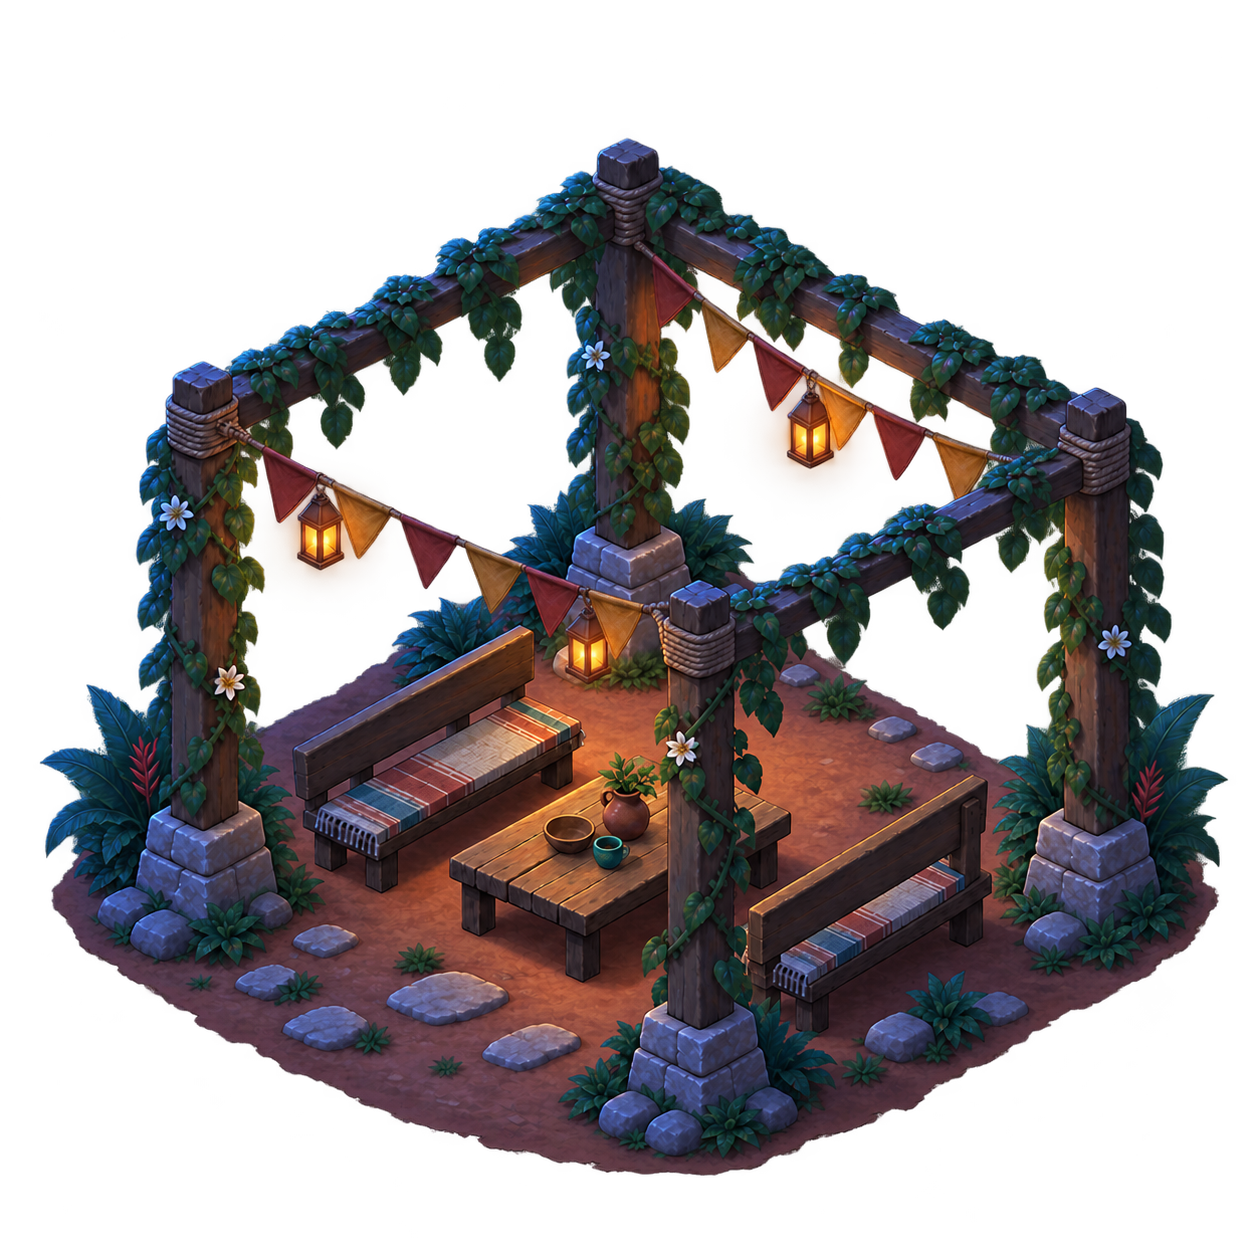
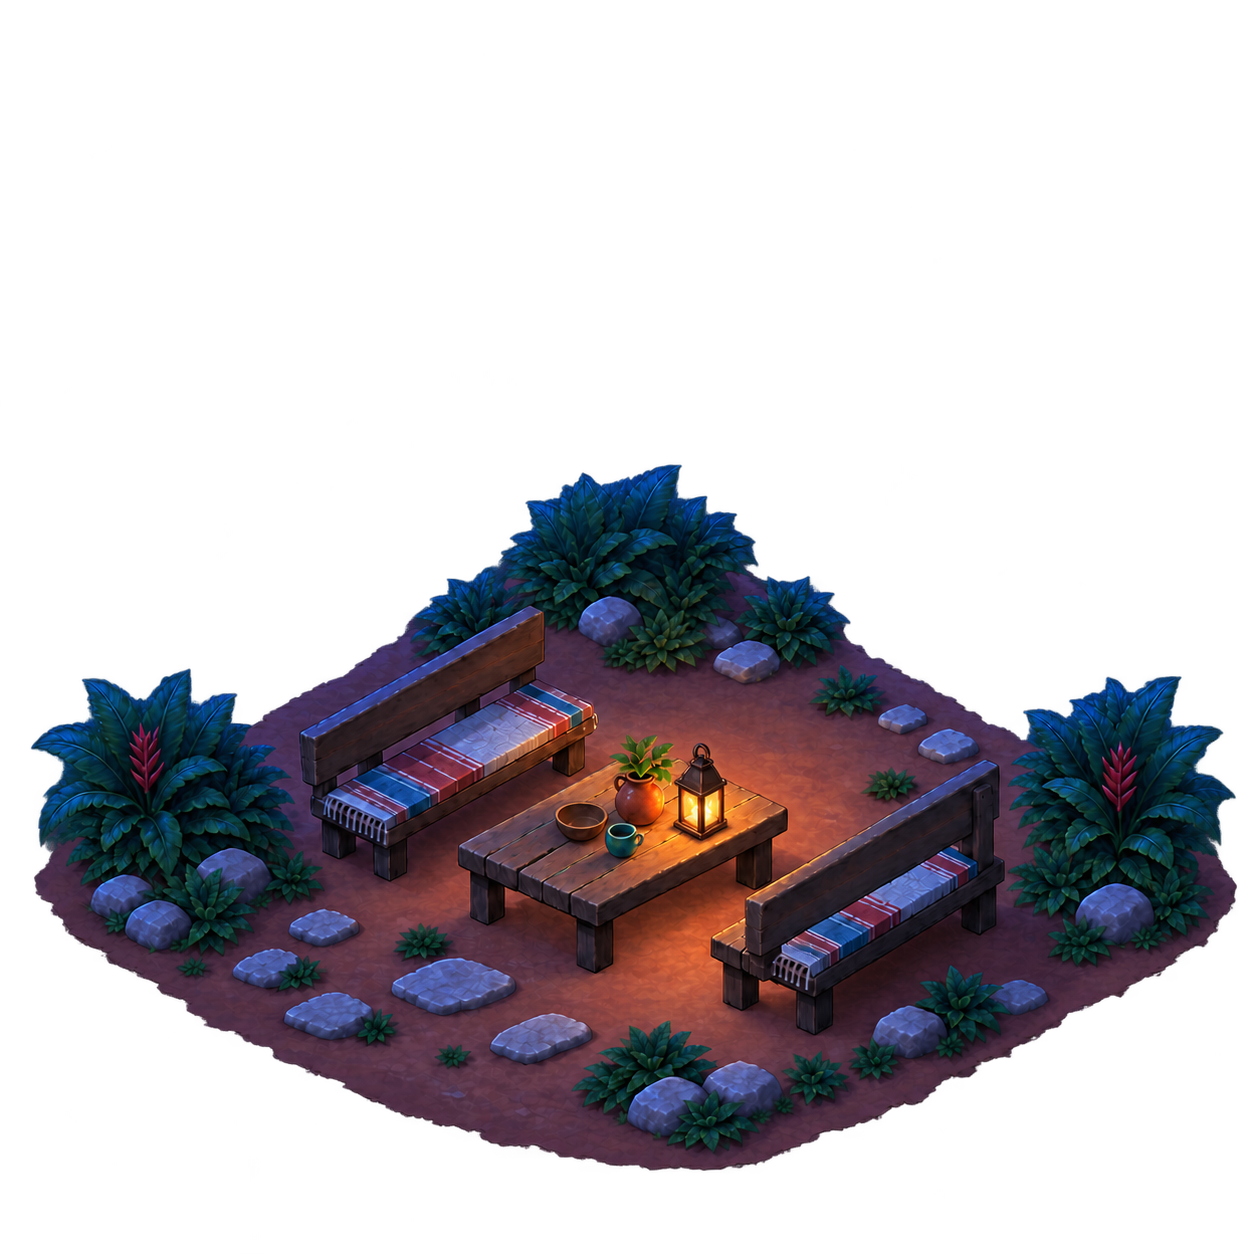
Remove the square pergola and keep an open seating area

diff --git a/web/building-projection.js b/web/building-projection.js
@@ -19,7 +19,7 @@ export const buildingProjection = {
   greenhouse: { size:1280, right:[[211,843,592,1132],[269,428,588,653]], left:[[595,1135,1059,909],[733,615,1005,481]], upright:[607,704,607,1033] },
   well: { size:1280, right:[[337,950,505,1040],[218,944,475,1086]], left:[[785,1001,1026,869],[790,1091,1040,953]], upright:[961,343,961,684] },
   compost: { size:1280, right:[[550,307,747,415],[538,657,735,773]], left:[[247,441,484,299],[540,598,754,464]], upright:[781,805,781,1075] },
-  square: { size:1280, right:[[625,160,1090,411],[199,383,699,605]], left:[[199,383,625,160],[699,605,1090,411]], upright:[1092,478,1092,817] },
+  square: { size:1280, right:[[460,851,598,911],[649,752,786,810]], left:[[310,733,541,611],[752,898,994,764]], upright:[599,919,599,966] },
   workshop: { size:1280, right:[[116,894,588,1141],[173,511,503,684]], left:[[591,1141,1149,930],[602,651,1025,505]], upright:[554,714,554,990] },
   coop: { size:1280, right:[[355,753,591,884],[277,486,579,657]], left:[[665,648,921,547],[661,886,746,853]], upright:[634,709,634,994] },
   'home-veranda': { size:1280, right:[[100,852,574,1098],[350,612,445,658]], left:[[574,1098,1156,852],[636,699,1102,503]], upright:[571,731,571,1065] },

diff --git a/web/building-mesh.js b/web/building-mesh.js
@@ -1,13 +1,4 @@
-// Orthographic registration of the pergola's four equal-height posts.
-// A single affine camera cannot repair its displaced front post. This small
-// constrained texture mesh moves the painted structure onto a rectangular
-// prism without replacing the village's materials, vines or furniture.
-export const pergolaMesh = {
-  size:1280,
-  source:[[0,0],[1280,0],[1280,1280],[0,1280],[625,158],[199,382],[1092,413],[698,607],[625,548],[199,828],[1092,838],[698,1058]],
-  target:[[0,0],[1280,0],[1280,1280],[0,1280],[650,170],[210,390],[1090,390],[650,610],[650,600],[210,820],[1090,820],[650,1040]],
-  triangles:[[0,1,4],[0,4,5],[1,4,6],[4,5,8],[4,6,8],[6,7,8],[0,3,9],[0,5,9],[5,7,8],[5,7,9],[1,2,10],[1,6,10],[6,7,10],[2,3,11],[3,9,11],[7,9,11],[7,10,11],[2,10,11]],
-};
+// Optional texture meshes for artwork that needs local projection repair.
 function weights(p,a,b,c){
   const d=(b[1]-c[1])*(a[0]-c[0])+(c[0]-b[0])*(a[1]-c[1]);
   const u=((b[1]-c[1])*(p[0]-c[0])+(c[0]-b[0])*(p[1]-c[1]))/d;

diff --git a/web/building-art.js b/web/building-art.js
@@ -4,7 +4,7 @@
 // directions to the same +/- 1/2 slopes used by projection.js.
 import { TILE_HALF_HEIGHT, TILE_HALF_WIDTH } from './projection.js';
 import { measuredAxes } from './building-projection.js';
-import { pergolaMesh, buildingTexture } from './building-mesh.js';
+import { buildingTexture } from './building-mesh.js';
 const atlas = 'village-atlas-isometric.png';
 export const buildingArt = {
   hydro: { name:'River generator', file:'hydro.png', width:96, anchor:.75 },
@@ -40,8 +40,6 @@ for (const [key, art] of Object.entries(allBuildingArt)) {
   const axes=measuredAxes(key);
   if(axes)art.axes=axes;
 }
-allBuildingArt.square.mesh=pergolaMesh;
-allBuildingArt.square.axes=[.5,-.5];
 export const homeArtKeys = ['home', ...Object.keys(homeVariants)];
 export function buildingArtKey(building, buildings, projects = []) {
   if(building.kind!=='home')return building.kind;

diff --git a/web/building-footprints.js b/web/building-footprints.js
@@ -37,7 +37,7 @@ const grounds={
   'home-gable':[1280,[[151,823],[650,1085],[1140,867]]],
   'home-courtyard':[1280,[[84,880],[584,1124],[1173,880]]],
   workshop:[1280,[[116,918],[588,1165],[1149,954]]],
-  square:[1280,[[199,828],[698,1058],[1092,838]]],
+  square:[1280,[[54,879],[634,1168],[1234,895]]],
   solar_farm:[1280,[[101,778],[595,1030],[1160,713]]],
   well:[1280,[[218,944],[590,1140],[1040,953]]],
   coop:[1280,[[240,1010],[580,1180],[1050,971]]],

diff --git a/web/art/README.md b/web/art/README.md
@@ -96,7 +96,7 @@ Per-source additions:
 
 - Village atlas: Keep the exact 2 by 2 atlas layout: home top left, kitchen top right, garden bottom left, banana grove bottom right. Warm home window slats and kitchen oven embers.
 - Garden, cistern, compost: Moonlight only; no lamps or glowing objects.
-- Square: Small warm lantern illumination under the pergola, restrained.
+- Square: An open seating area with two benches and a table. Its portable table lantern provides restrained warm night lighting. The pergola was removed with the built-in image tool; the [edit prompts](../../assets/art-direction/open-square-prompts.json) record the day and night changes.
 - Workshop: Warm light on workbench from inside.
 - Coop: Coop interior stays dark for sleeping chickens; moonlight only.
 
